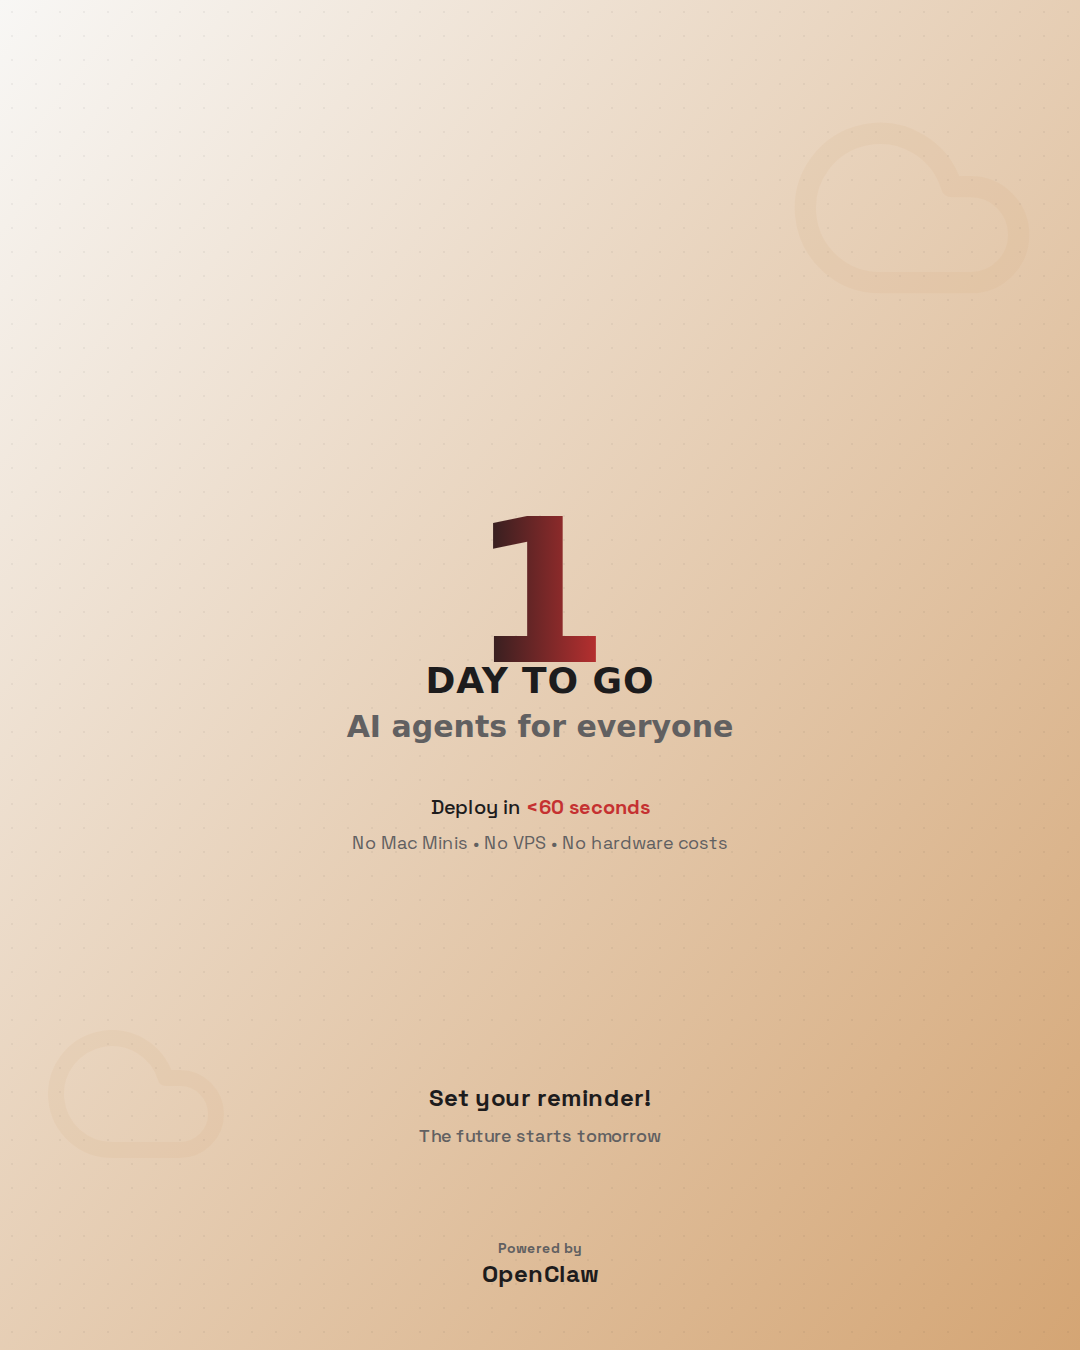
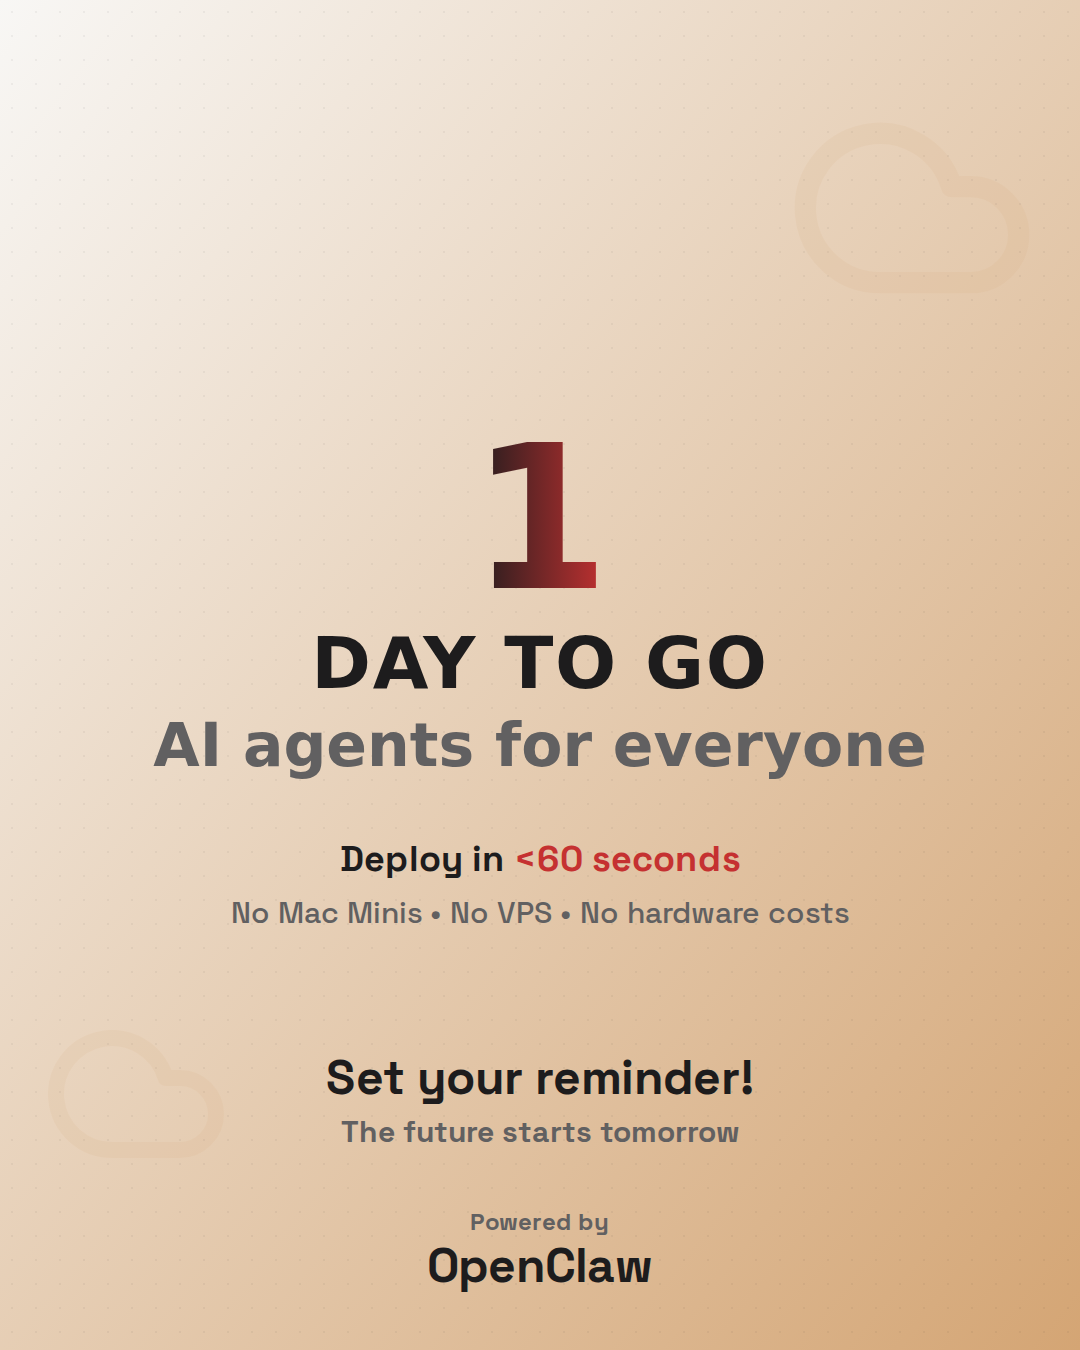
Finalize Teaser Post 3 - 2x bigger text, proper spacing
- All secondary text 2x bigger
- Added breathing room between '1' and subtitle
- Updated value props, CTA, and attribution sizing

diff --git a/pages/teaser-post-3.js b/pages/teaser-post-3.js
@@ -36,47 +36,47 @@ const TeaserPost3 = () => {
           </span>
         </div>
 
-        {/* Subtitle */}
-        <div className="text-center -mt-8">
-          <p className="font-sans text-4xl font-black text-[#1D1C1D] uppercase tracking-wide">
+        {/* Subtitle - 2x BIGGER */}
+        <div className="text-center mt-2">
+          <p className="font-sans text-7xl font-black text-[#1D1C1D] uppercase tracking-wide">
             DAY TO GO
           </p>
-          <p className="font-sans text-3xl font-bold text-[#616061] mt-2">
+          <p className="font-sans text-6xl font-bold text-[#616061] mt-4">
             AI agents for everyone
           </p>
         </div>
 
-        {/* Value props */}
-        <div className="mt-12 text-center space-y-2">
-          <p className="text-xl text-[#1D1C1D] font-medium">
-            Deploy in <span className="font-bold text-[#c53131]">&lt;60 seconds</span>
+        {/* Value props - 2x BIGGER */}
+        <div className="mt-16 text-center space-y-4">
+          <p className="text-4xl text-[#1D1C1D] font-bold">
+            Deploy in <span className="font-black text-[#c53131]">&lt;60 seconds</span>
           </p>
-          <p className="text-lg text-[#616061]">
+          <p className="text-3xl text-[#616061] font-medium">
             No Mac Minis • No VPS • No hardware costs
           </p>
         </div>
       </div>
 
-      {/* Bottom: Set your reminder CTA - Safe zone (200px from bottom) */}
+      {/* Bottom: Set your reminder CTA - Safe zone (200px from bottom) - 2x BIGGER */}
       <div 
         className="absolute left-1/2 transform -translate-x-1/2 text-center w-full px-8"
         style={{ bottom: '200px' }}
       >
-        <p className="text-2xl font-black text-[#1D1C1D] mb-2">
+        <p className="text-5xl font-black text-[#1D1C1D] mb-3">
           Set your reminder!
         </p>
-        <p className="text-lg text-[#616061] font-medium">
+        <p className="text-3xl text-[#616061] font-bold">
           The future starts tomorrow
         </p>
       </div>
 
-      {/* Very bottom: Powered by OpenClaw */}
+      {/* Very bottom: Powered by OpenClaw - 2x BIGGER */}
       <div 
         className="absolute left-1/2 transform -translate-x-1/2 text-center"
         style={{ bottom: '60px' }}
       >
-        <p className="text-sm text-[#616061] font-bold">Powered by</p>
-        <p className="text-2xl font-black text-[#1D1C1D]">OpenClaw</p>
+        <p className="text-2xl text-[#616061] font-bold mb-1">Powered by</p>
+        <p className="text-5xl font-black text-[#1D1C1D]">OpenClaw</p>
       </div>
     </div>
   );
